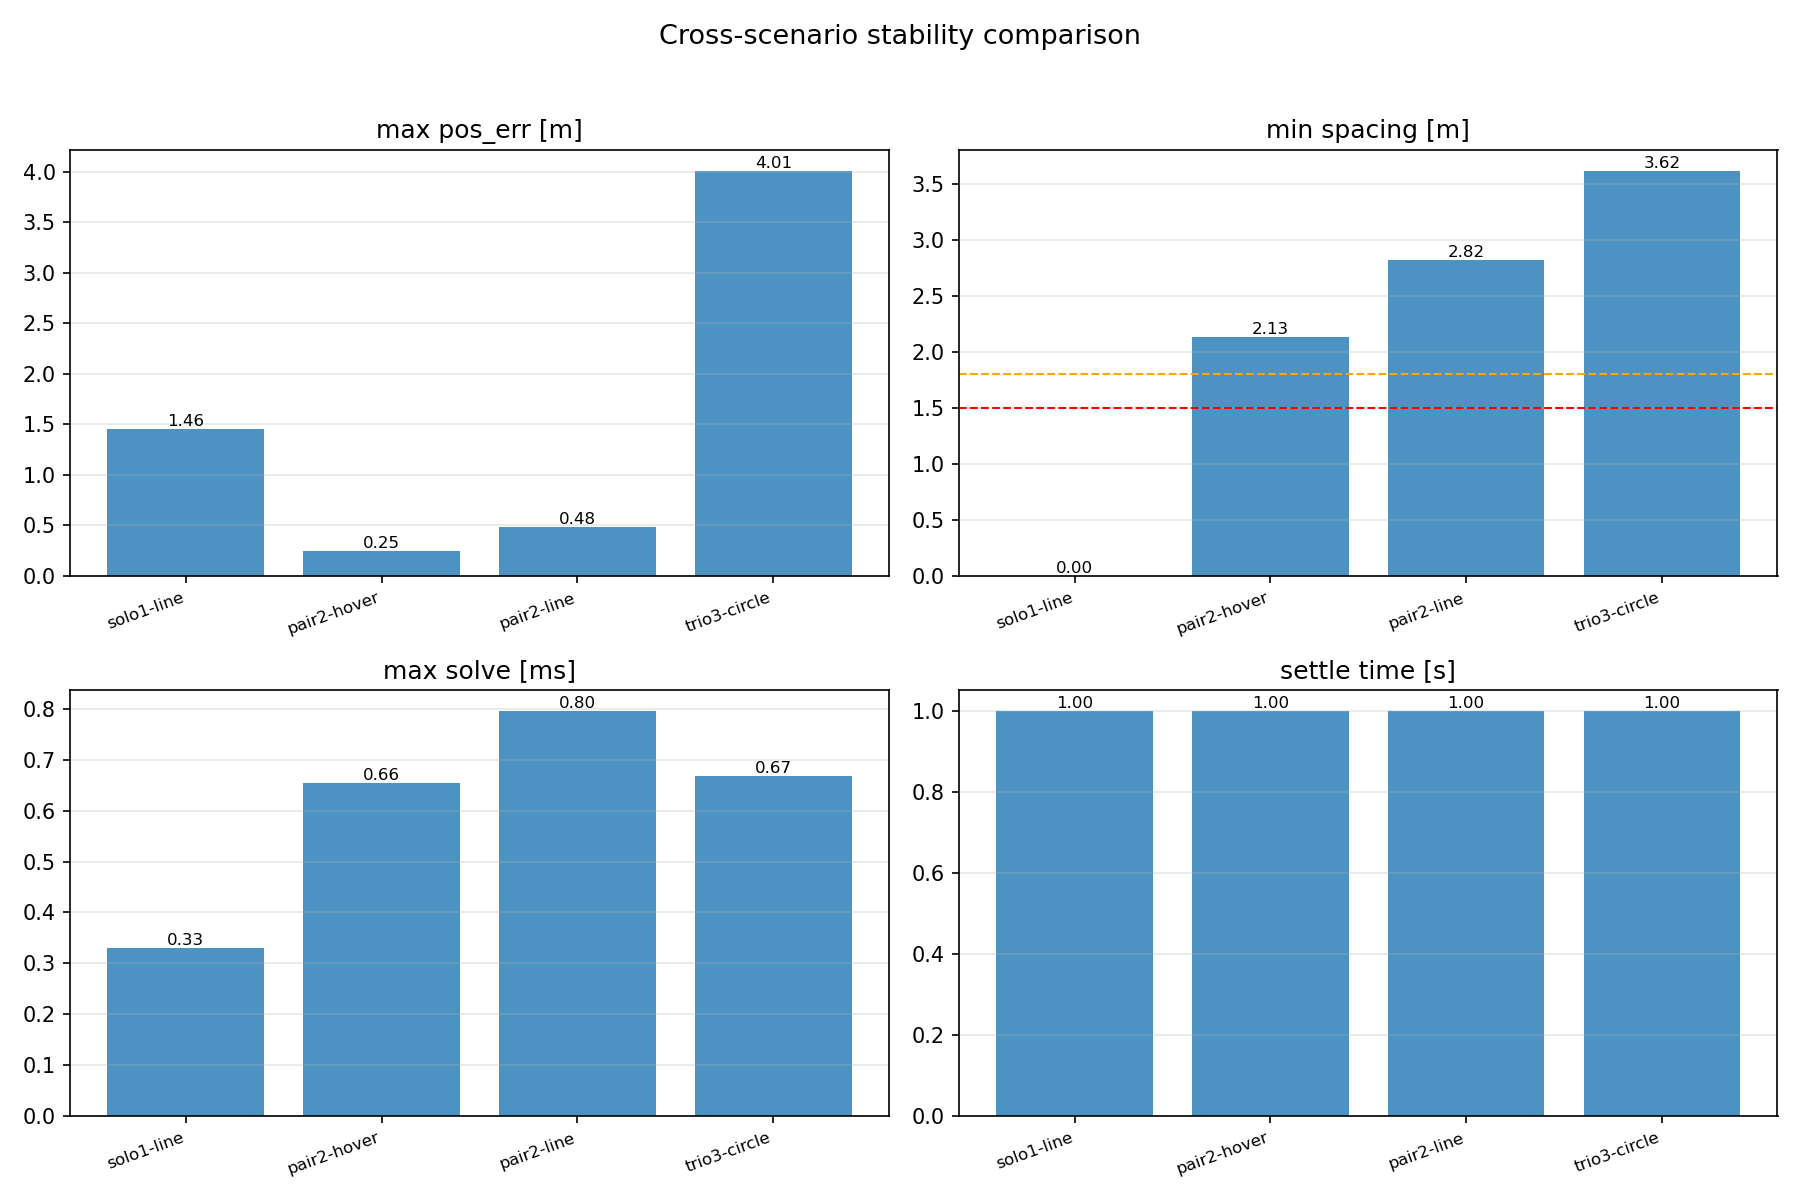
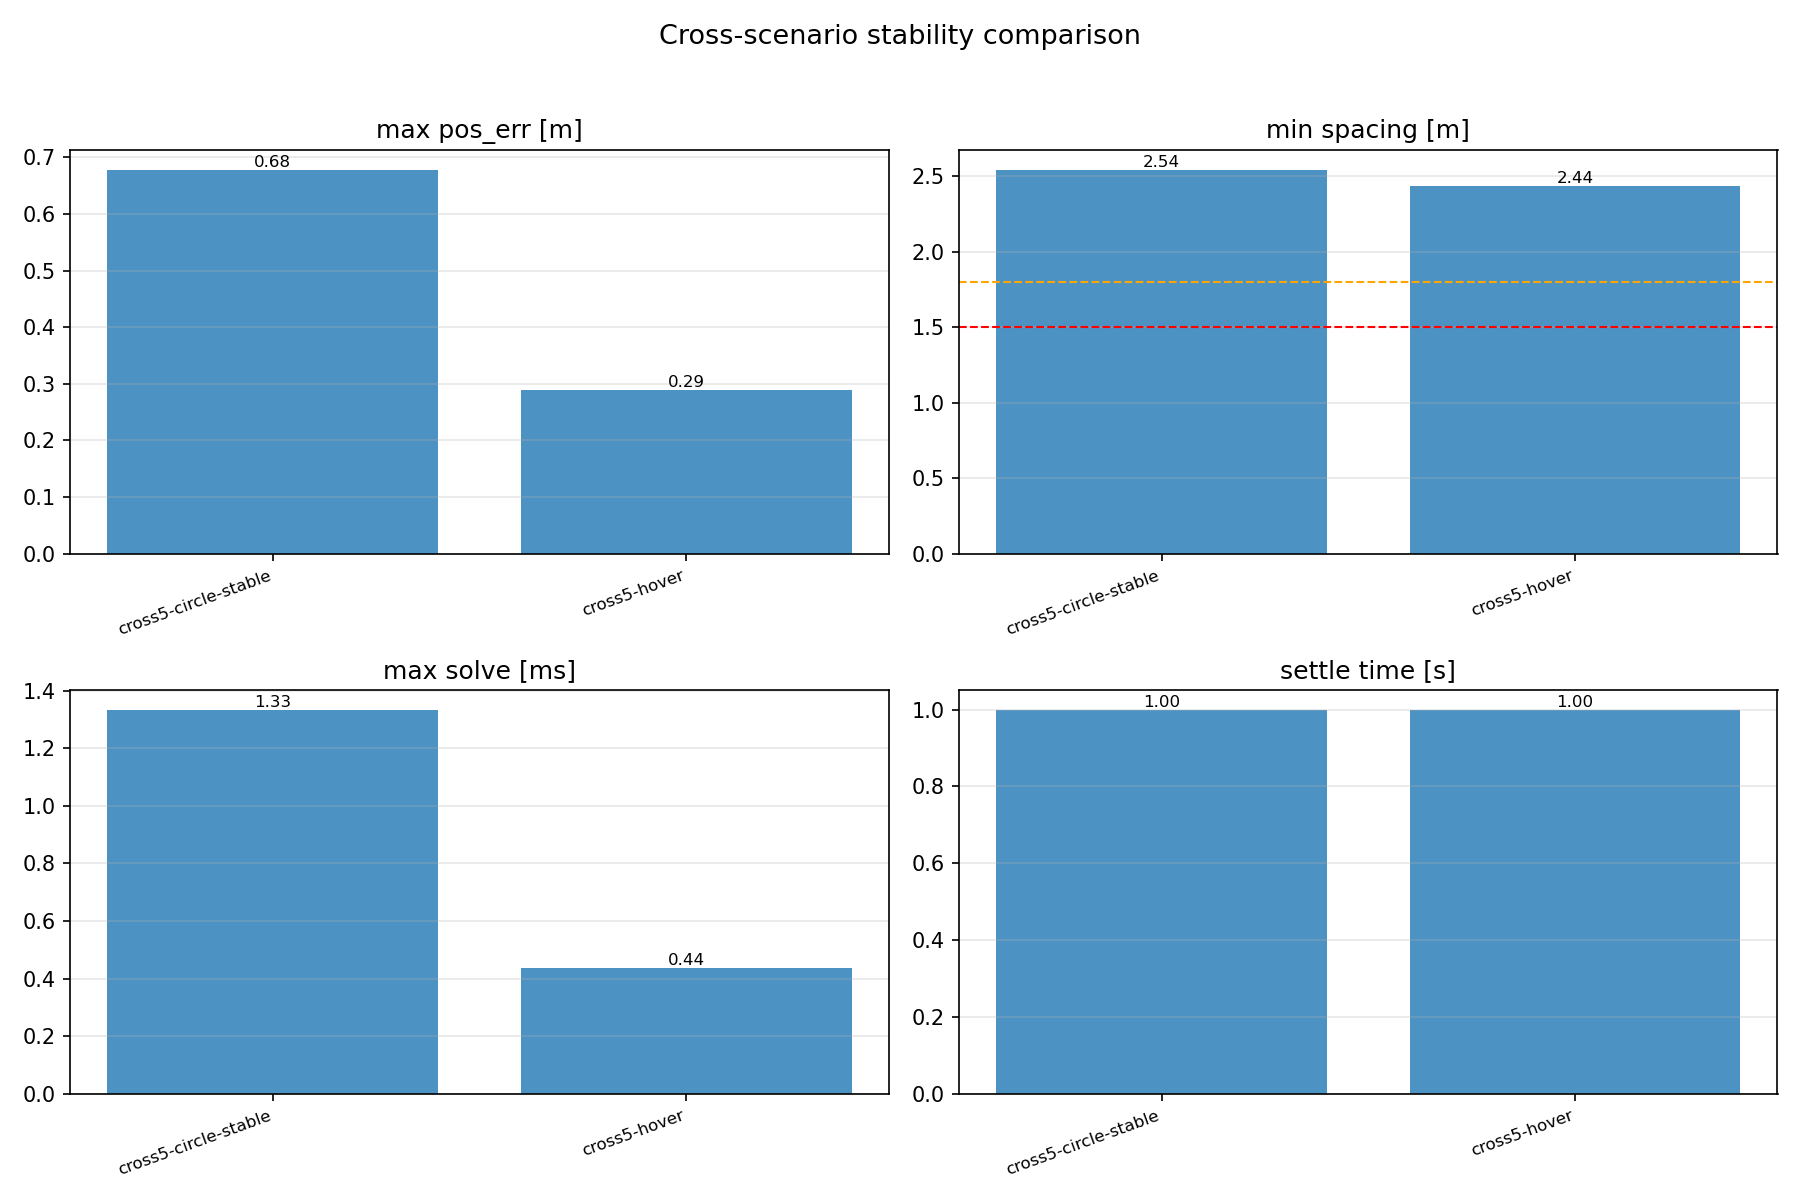
feat(report): add S13 38-min stable circle run and update S5/S6 flight data
- Add S13 cross5 circle 38.1min long-duration SITL result (0 violations, 0 fallbacks,
  min_sp=2.544m, form_max=0.822m, solve mean=0.25ms) — longest stability proof for cross5
- Update S5 metrics to repro_0616 run (13.7min, 0 violations, min_sp=2.619m)
- Update S6 metrics to latest hover run (min_sp=2.555m) + add S6 panels/traj figures
- Add flight_cross5_circle_stable_{panels,traj}.png and S6_cross5_hover_{panels,traj}.png
- Refresh compare_metrics.png and compare_spacing.png with latest data
- Fill cross-scenario comparison analysis text (previously TODO placeholder)
- 验证体系论证.md §3: add S13 row, update S5/S6 with latest flight numbers

diff --git a/report/验证体系与代码准确性论证.md b/report/验证体系与代码准确性论证.md
@@ -73,9 +73,10 @@
 | trio3 hover | 0.000m / PASS | PASS（既往实测） | ✅ 定性一致 |
 | solo1/pair2/trio3 × line | 0.56m / REVIEW | 〔待 SITL 定量补齐〕 | 同判定，定量待跑 |
 | solo1/pair2 × circle | 1.18m / REVIEW | 〔待 SITL 定量补齐〕 | 同判定，定量待跑 |
-| cross5 hover (S6) | **0.000m / PASS** | 0 violations，min_sp=2.44m（SITL） | ✅ 两栈一致稳定 |
-| cross5 line (S4) | **0.218m / PASS** | form_err 1.22m，min_sp=2.66m，0 违规（SITL） | ✅ 同判定，算法验证通过 |
-| cross5 circle (S5) | **0.124m / PASS** | form_err 0.39m，min_sp=2.62m，0 违规，8.9 min（SITL） | ✅ 优于 trio3 circle（v=1.0+ready_hold） |
+| cross5 hover (S6) | **0.000m / PASS** | form_max=0.546m，min_sp=2.555m，0 violations（SITL 148s） | ✅ 两栈一致稳定 |
+| cross5 line (S4) | **0.218m / PASS** | form_err 1.22m，min_sp=2.66m，0 violations（SITL） | ✅ 同判定，算法验证通过 |
+| cross5 circle (S5) | **0.124m / PASS** | form_max=1.254m，min_sp=2.619m，0 violations，13.7 min（SITL） | ✅ 优于 trio3 circle（v=1.0+ready_hold） |
+| cross5 circle 长时 (S13) | — | form_max=0.822m，min_sp=2.544m，**0 violations，0 fallbacks，38.1 min**（SITL） | ✅ 长时无漂移，cross5 circle 稳定性最强实证 |
 | grid9 line (S7) | 〔Simulink 暂未建〕 | form_err 1.02m，min_sp=2.07m，1 fallback（SITL） | — |
 
 > **headline 证据**：trio3 circle——两套**完全独立**的实现（Python/acados/Gazebo vs MATLAB/ADMM/6DOF-PID）给出 1.129m 与 1.185m 的共模跟踪滞后、同判 REVIEW。两栈独立却同结果，强力佐证"该行为是算法属性、非某仿真器瑕疵"。